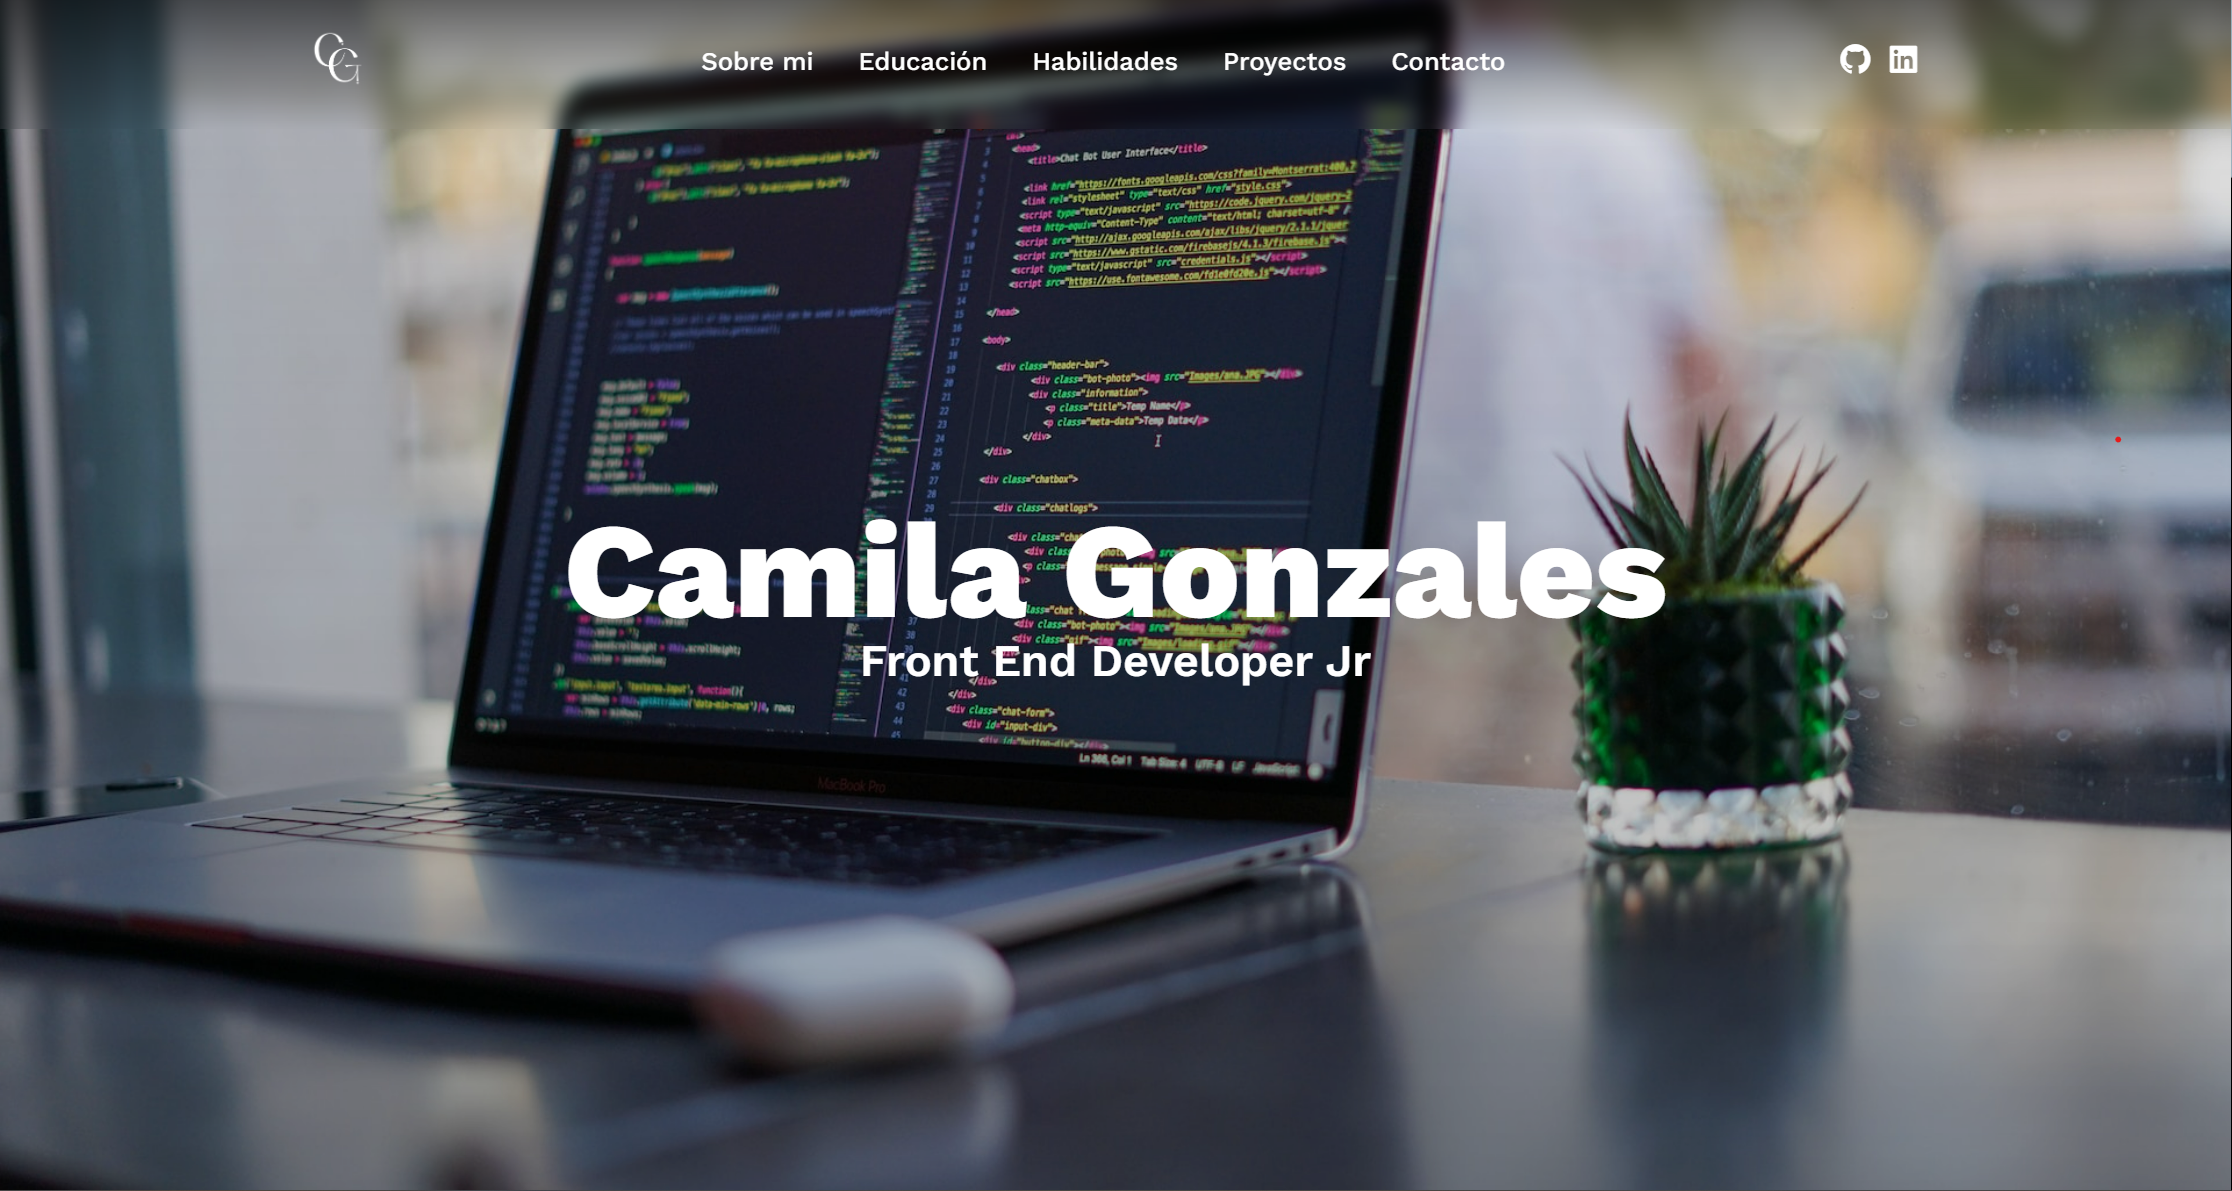
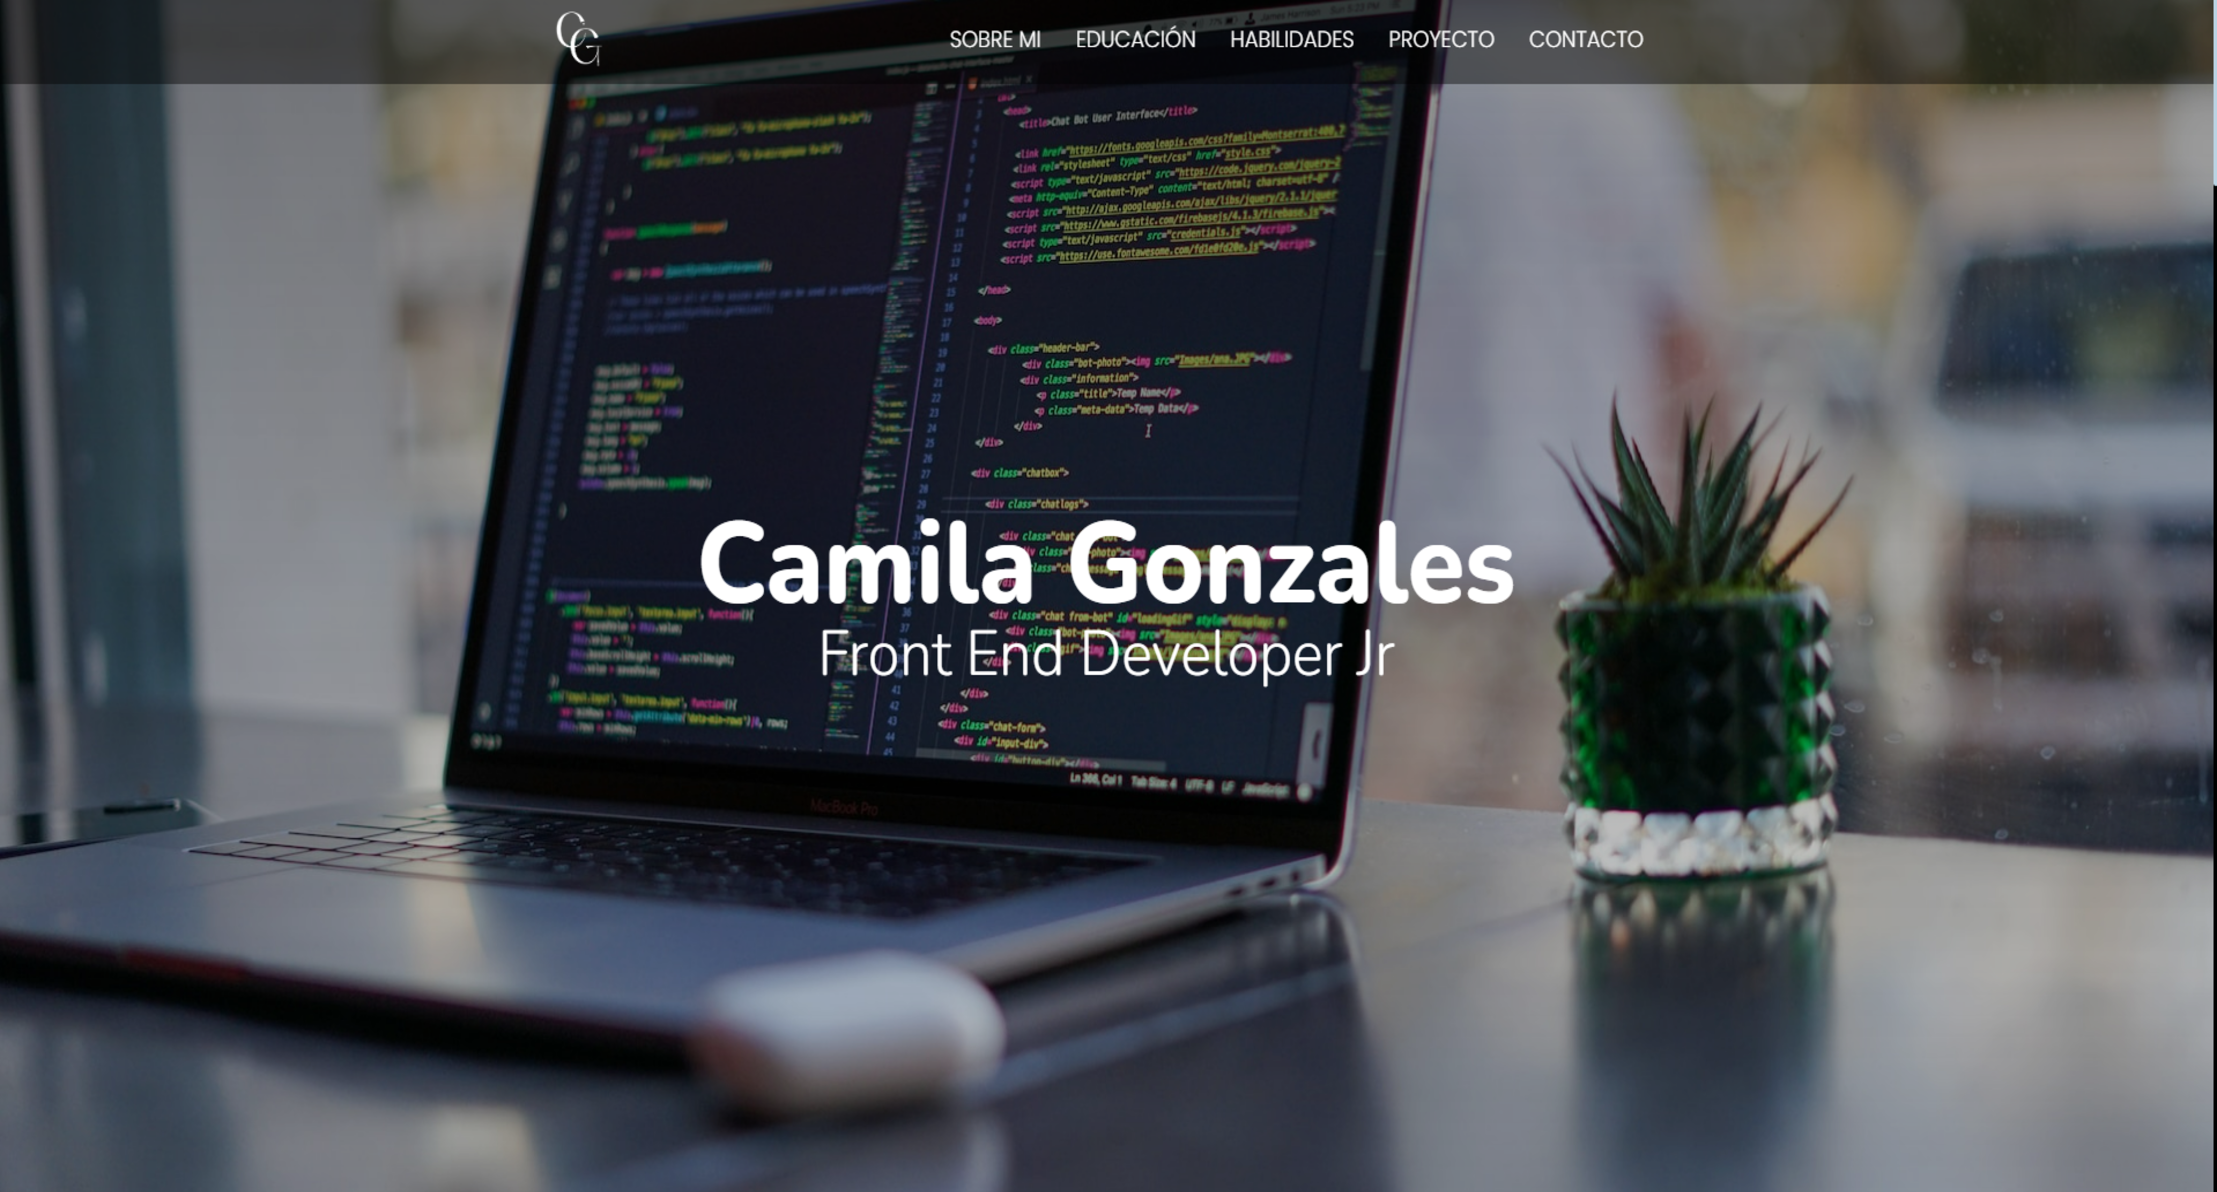
ajustes de estilo

diff --git a/index.html b/index.html
@@ -3,7 +3,9 @@
 <head>
     <meta charset="UTF-8">
     <meta name="viewport" content="width=device-width, initial-scale=1.0">
-    <title>Porfolio - CG</title>
+    <!--=============== FAVICON ===============-->
+    <link rel="shortcut icon" href="img/Logo__CG.png" type="image/x-icon" />
+    <title>CG</title>
 
     <!-- Styles -->
     <link rel="stylesheet" href="css/reset.css">
@@ -72,16 +74,10 @@
         <div class="about-me">
             <div class="about-me-info">
                 <h1 class="about-me-title">Sobre mi</h1>
-                <p class="about-me-details">Lorem ipsum dolor sit amet consectetur adipisicing
-                    elit. Repudiandae, temporibus ullam? Fuga, error
-                    ratione mollitia facere rem nihil fugit odio
-                    assumenda magni sint corporis eius similique
-                    ducimus dolorem aliquid voluptas nostrum excepturi
-                    quo laboriosam illum illo explicabo, minus porro.
-                    Corrupti in tempore, similique, veniam officia
-                    repellendus pariatur sunt voluptas vel ipsa hic!
-                    Possimus dolorum accusamus facere, aliquam
-                    repellendus.
+                <p class="about-me-details">
+                    Estudiante de desarrollo web en el área de Front-End, apasionada en plasmar mis ideas a través de código para satisfacer las necesidades del cliente. 
+                    Dispuesta a seguir perfeccionando mis habilidades y adquiriendo más conocimiento sobre diferentes frameworks y lenguajes que me ayuden a crecer como 
+                    programadora, buscando aprender sobre el Diseño UX/UI para ofrecer un mejor trabajo en el futuro. Deseosa de una oportunidad laboral.
                 </p>
                 <button class="about-me-btn">Descargar CV</button>
             </div>
@@ -121,7 +117,7 @@
                     <span></span>
                 </section>
                 <section class="content">
-                    <h2>Full Stack Web Development</h1>
+                    <h2>Desarrollo Web Full Stack</h1>
                     <p>NUMEN Academy - Certificado</p>
                 </section>
             </div>
@@ -210,8 +206,8 @@
     <section class="proyect" id="proyect">
 
         <div class="proyect-header">
-                <h1>Proyectos</h1>
-            </div>
+            <h1>Proyectos</h1>
+        </div>
 
         <div class="card_container">
 
@@ -220,10 +216,10 @@
 
                 <div class="card_data">
                     <h2 class="card_title">Encriptador</h2>
-                    <a href="#" class="card_button">
+                    <a href="https://github.com/Camila1953/Encriptador" target="_blank" class="card_button">
                         <i class='bx bxl-github'></i>
                     </a>
-                    <a href="#" class="card_button">
+                    <a href="https://camila1953.github.io/Encriptador/" target="_blank"  class="card_button">
                         <i class='bx bx-navigation'></i>
                     </a>
                 </div>
@@ -234,10 +230,10 @@
 
                 <div class="card_data">
                     <h2 class="card_title">Venus</h2>
-                    <a href="#" class="card_button">
+                    <a href="#" target="_blank"  class="card_button">
                         <i class='bx bxl-github'></i>
                     </a>
-                    <a href="#" class="card_button">
+                    <a href="#" target="_blank"  class="card_button">
                         <i class='bx bx-navigation'></i>
                     </a>
                 </div>
@@ -248,10 +244,10 @@
 
                 <div class="card_data">
                     <h2 class="card_title">CG</h2>
-                    <a href="#" class="card_button">
+                    <a href="https://github.com/Camila1953/Porfolio-CG" target="_blank"  class="card_button">
                         <i class='bx bxl-github'></i>
                     </a>
-                    <a href="#" class="card_button">
+                    <a href="#" target="_blank"  class="card_button">
                         <i class='bx bx-navigation'></i>
                     </a>
                 </div>
@@ -262,18 +258,30 @@
 
     <!-- Conctato -->
     <section class="contact" id="contact">
+        <div class="contact-header">
+            <h1>Contacto</h1>
+        </div>
+
         <div class="contact-info">
             <div class="card">
-                <i class="card-icon fa-solid fa-envelope"></i>
-                <p class="unic">ayelenchavez1953@gmail.com</p>
+                <a href="mailto:ayelenchavez1953@gmail.com" target="_blank" >
+                    <i class="card-icon fa-solid fa-envelope"></i>
+                </a>
+                <p class="unic">
+                    ayelenchavez1953@gmail.com
+                </p>
             </div>
             <div class="card">
-                <i class="card-icon fa-solid fa-phone"></i>
-                <p>+54 2612114798</p>
+                <a href="https://wa.me/542612114798?text=Escribe%20tu%20pregunta,%20te%20responderé%20a%20la%20brevedad." target="_blank" >
+                    <i class="card-icon fa-solid fa-phone"></i>
+                </a>
+                <p>
+                    +54 2612114798
+                </p>
             </div>
             <div class="card">
                 <i class="card-icon fa-solid fa-location-dot"></i>
-                <p class="contact-data">Mendoza, Argentina.</p>
+                <p class="contact-data">Mendoza, Argentina.</p><a href=""></a>
             </div>
         </div>
     </section>
@@ -290,12 +298,12 @@
 
             <ul class="social-i-footer">
                 <li>
-                    <a href="#">
+                    <a href="https://github.com/Camila1953?tab=repositories" target="_blank" >
                         <i class='bx bxl-github'></i>
                     </a>
                 </li>
                 <li>
-                    <a href="#">
+                    <a href="https://www.linkedin.com/in/camilagonzales/" target="_blank" >
                         <i class='bx bxl-linkedin-square'></i>
                     </a>
                 </li>
@@ -319,7 +327,8 @@
                 </li>
             </ul>
             
-            <p> © CG | All Rights Reserved</p>
+            <p>  CG | 2024</p>
+            <!-- <p> © CG | All Rights Reserved</p> -->
         </footer>
     </section>
 

diff --git a/css/header.css b/css/header.css
@@ -7,6 +7,10 @@
     width: 100%;
 }
 
+header.abajo{
+    background-color: rgba(0, 0, 0, 0.918);
+}
+
 .topnav{
     display: flex;
     justify-content: space-between;
@@ -45,19 +49,18 @@
 }
 
 .banner{
-    background-image: linear-gradient(rgba(0, 0, 0, 0.42), rgba(0, 0, 0, 0.2)), url(/img/fond2.jpg);
+    background-image: linear-gradient(rgba(0, 0, 0, 0.487), rgba(0, 0, 0, 0.396)), url(/img/fond2.jpg);
     background-size: cover;
     background-position: center center;
     background-repeat: no-repeat;
-    min-height: 500px;
-    height: 100vh;
+    min-height: 100vh;
 }
 
 .pres-container{
     padding: 0 15%;
     font-family: 'Nunito', sans-serif;
 
-    height: 100vh;
+    min-height: 100vh;
     width: 100%;
     display: flex;
     align-items: center;

diff --git a/css/contact.css b/css/contact.css
@@ -3,6 +3,17 @@
     display: flex;
     align-items: center;
     justify-content: center;
+    flex-direction: column;
+}
+
+.contact-header{
+    width: 100%;
+    text-align: center;
+    padding-bottom: 60px;
+}
+
+.contact-header h1{
+    font-size: 40px;
 }
 
 .contact-info{
@@ -26,7 +37,6 @@
     flex-direction: column;
     justify-content: center;
     align-items: center;
-    cursor: pointer;
 }
 
 .card-icon{
@@ -37,10 +47,11 @@
     text-align: center;
     line-height: 60px !important;
     border-radius: 50%;
+    cursor: pointer;
     transition: 0.3s linear;
 }
 
-.card:hover .card-icon{
+.card .card-icon:hover{
     background: none;
     color: #bad3e2;
     transform: scale(1.6);

diff --git a/css/education.css b/css/education.css
@@ -59,6 +59,7 @@
 }
 
 .content h2{
+    line-height: 1.5;
     font-size: 24px;
     padding-bottom: 8px;
     color: #bad3e2;
@@ -119,7 +120,7 @@
     }
 
     .education-header{
-        padding-bottom: 56px;
+        padding-bottom: 60px;
     }
 
     .row:nth-child(odd),
@@ -187,10 +188,6 @@
 @media (max-width: 425px){
     .education{
         padding-top: 6%;
-    }
-
-    .education-header{
-        padding-bottom: 50px;
     }
 
     .row .content{

diff --git a/sript.js b/sript.js
@@ -15,3 +15,8 @@ navLinks.forEach( link => {
         menu.classList.remove("menu_opened");
     });
 })
+
+window.addEventListener("scroll", function() {
+    const header = document.querySelector("header");
+    header.classList.toggle("abajo", window.scrollY>800);
+});

diff --git a/css/proyects.css b/css/proyects.css
@@ -15,7 +15,6 @@ img{
 .proyect-header{
     width: 100%;
     text-align: center;
-    /* padding: 50px 0; */
     padding-bottom: 90px;
 }
 
@@ -66,6 +65,7 @@ img{
 /* NO TOCAR */
 
 .card_button{
+    font-size: 1.20rem;
     opacity: 0.75;
 }
 

diff --git a/css/skills.css b/css/skills.css
@@ -89,11 +89,11 @@
     }
 
     .skills-header{
-        margin-bottom: 40px;
+        padding-bottom: 60px;
     }
 
     .skills-header h1{
-        font-size: 30px;
+        font-size: 40px;
     }
 
     .container-skill .container-box-skill{

diff --git a/css/about-me.css b/css/about-me.css
@@ -28,7 +28,7 @@
 
 .about-me-details{
     font-size: 20px;
-    font-weight: 500;
+    font-weight: 300;
     line-height: 1.3;
     max-width: 450px;
     margin: 30px 0;

diff --git a/css/global.css b/css/global.css
@@ -16,19 +16,6 @@ body{
     background-color: black;
 }
 
-/* TITULOS GENERALES */
-
-
-
-
-
-
-
-
-
-
-
-
 /* Scroll Personalizado */
 
 body::-webkit-scrollbar{
